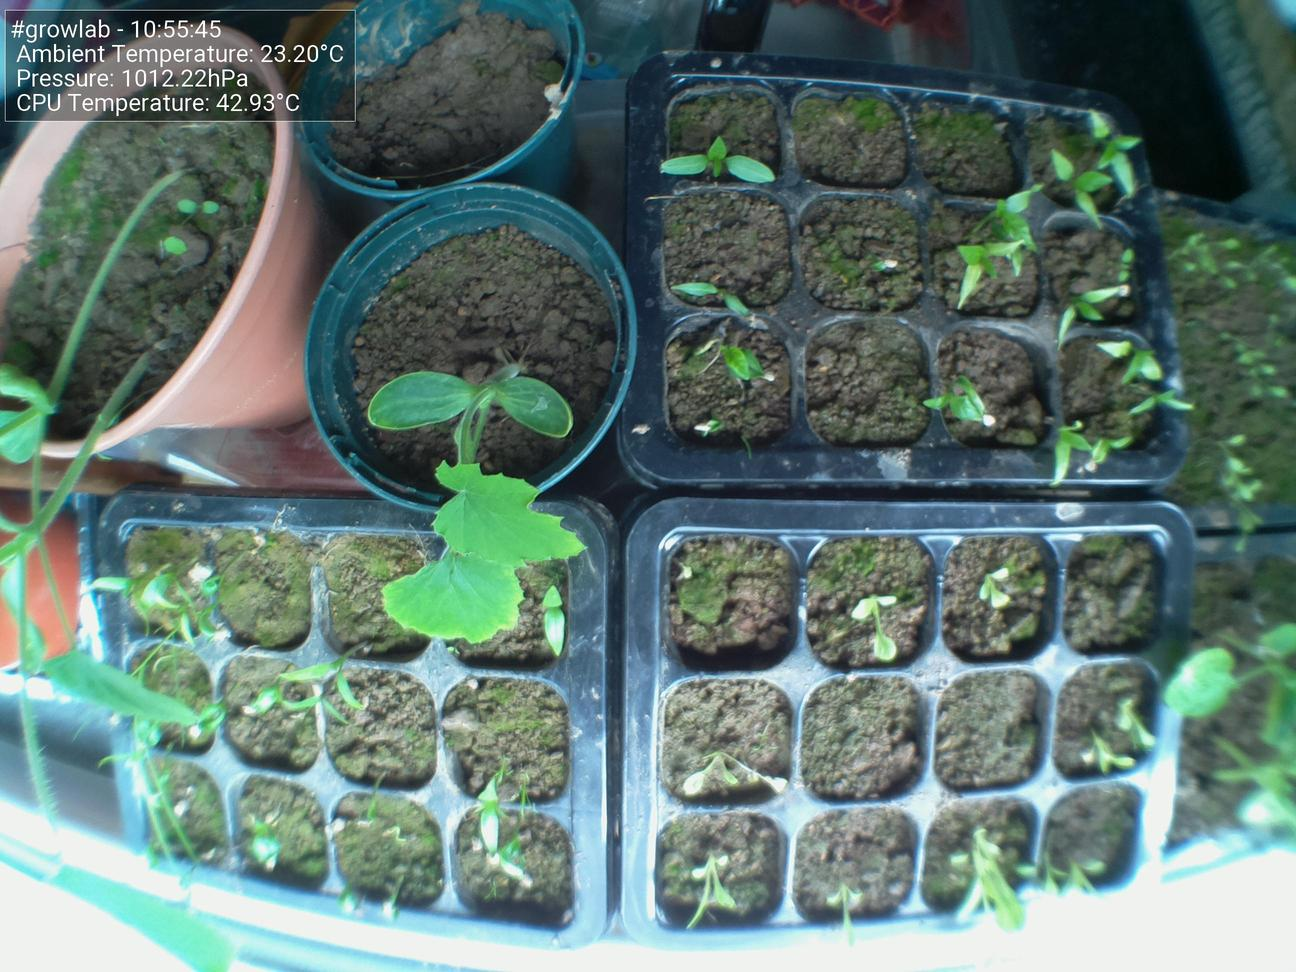
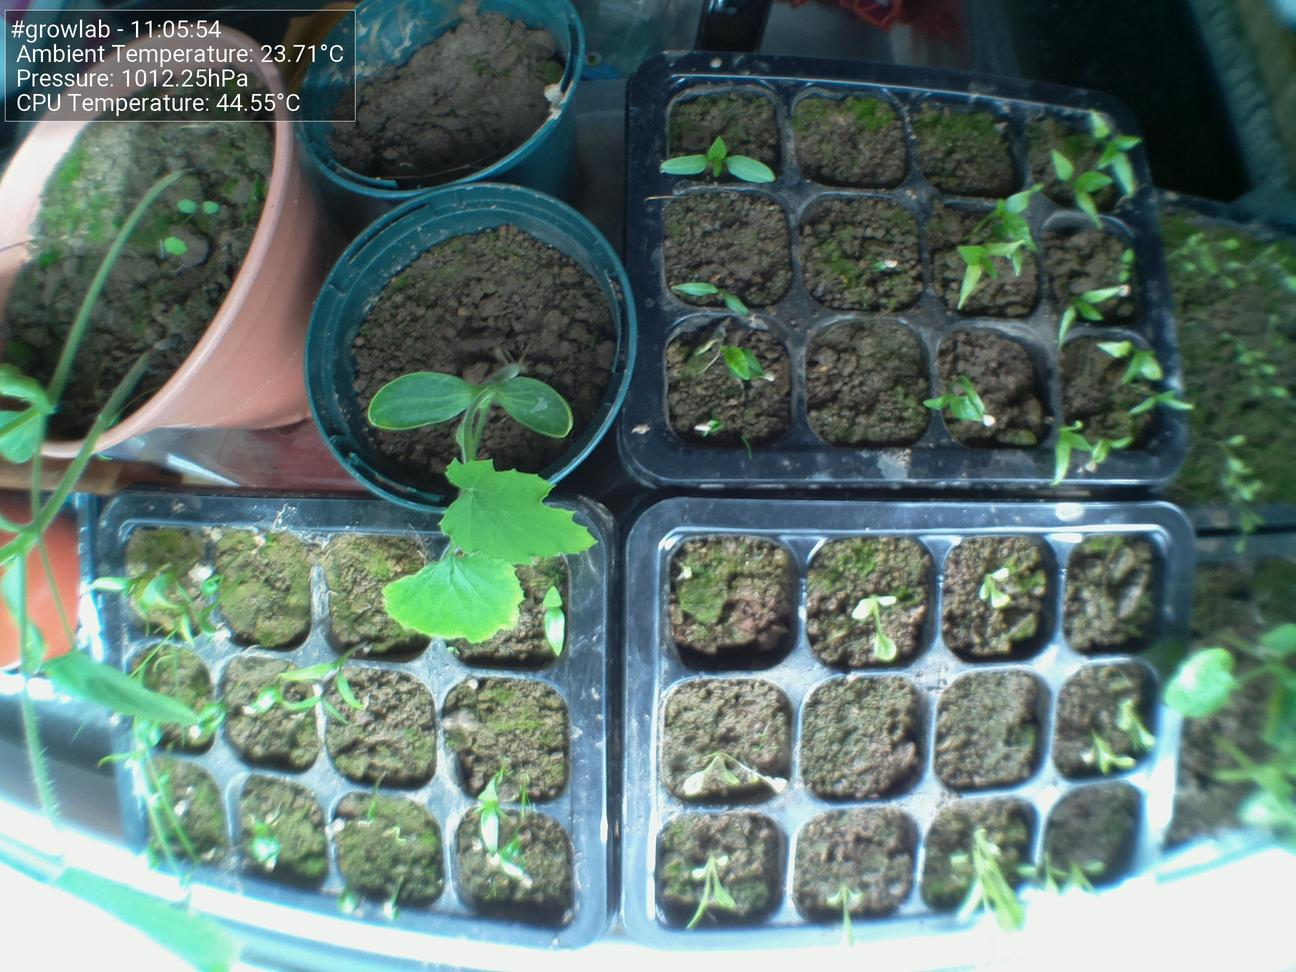
Update images at Sat 14 May 11:05:58 BST 2022

diff --git a/docs/index.html b/docs/index.html
@@ -44,15 +44,15 @@
                         <tbody>
                             <tr>
                                 <td>Time</td>
-                                <td>10:55:45</td>
+                                <td>11:05:54</td>
                             </tr>
                             <tr>
                                 <td>CPU Temp</td>
-                                <td>42.93°C</td>
+                                <td>44.55°C</td>
                             </tr>
                             <tr>
                                 <td>Ambient Temperature</td>
-                                <td>23.20°C</td>
+                                <td>23.71°C</td>
                             </tr>
                             <tr>
                                 <td>Humidity</td>
@@ -60,7 +60,7 @@
                             </tr>
                             <tr>
                                 <td>Pressure</td>
-                                <td>1012.22hPa</td>
+                                <td>1012.25hPa</td>
                             </tr>
                         </tbody>
                     </table>
@@ -68,7 +68,7 @@
 
                 <h5>Latest image</h5>
                 <div style="width: 85%;">
-                            <img class="figure-img img-fluid rounded" src="./preview.jpg?uid=1652522149.2815435">
+                            <img class="figure-img img-fluid rounded" src="./preview.jpg?uid=1652522758.5726488">
                 </div>
             </div>
         </div>
